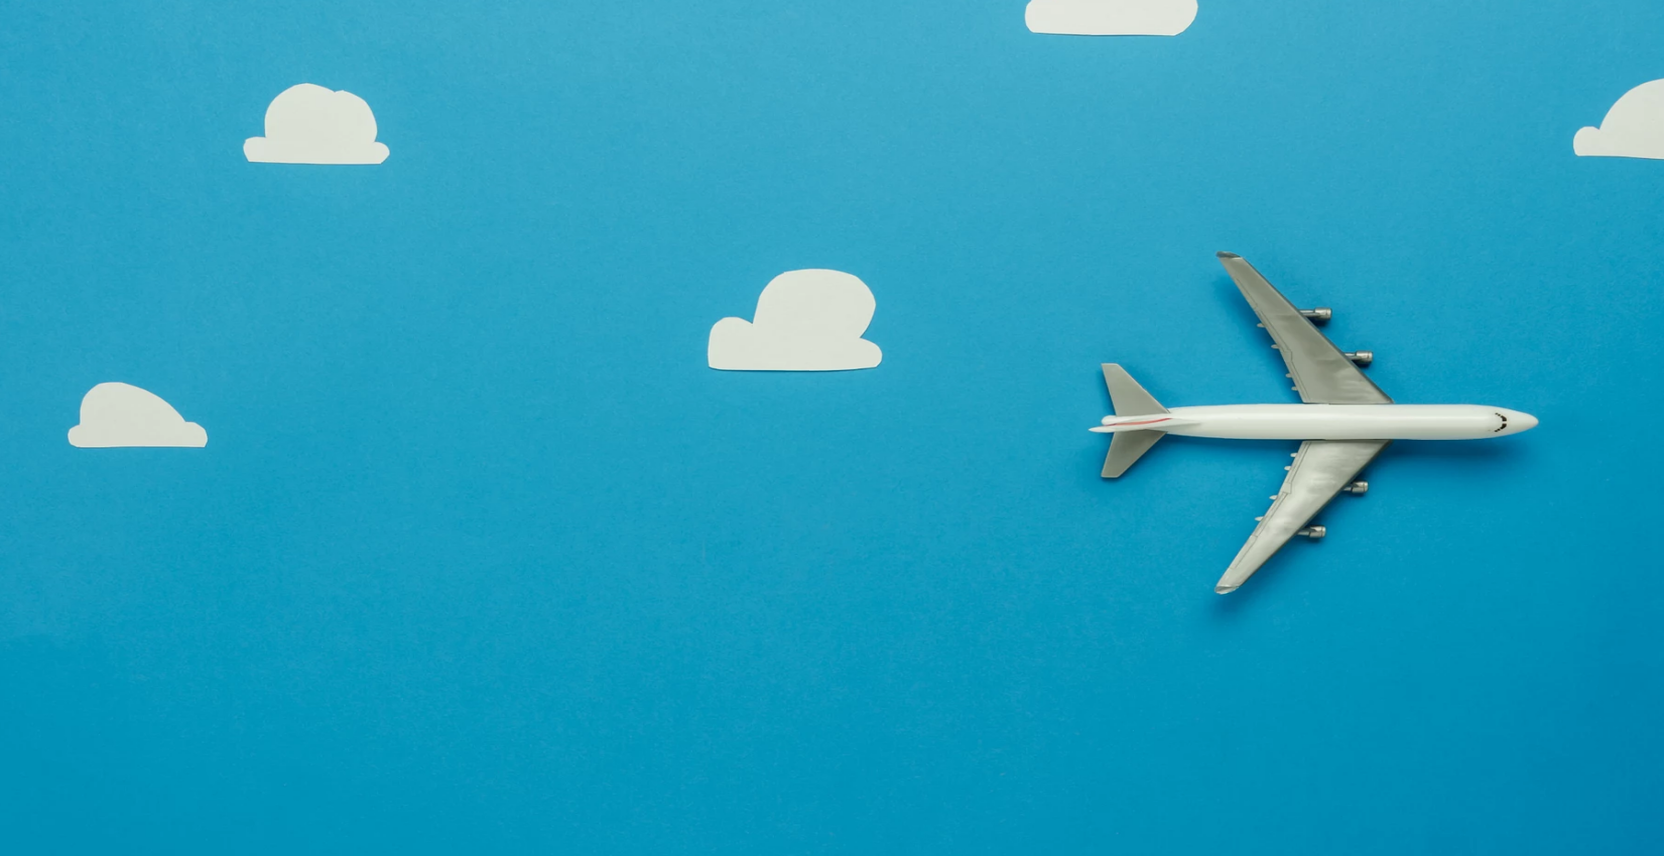
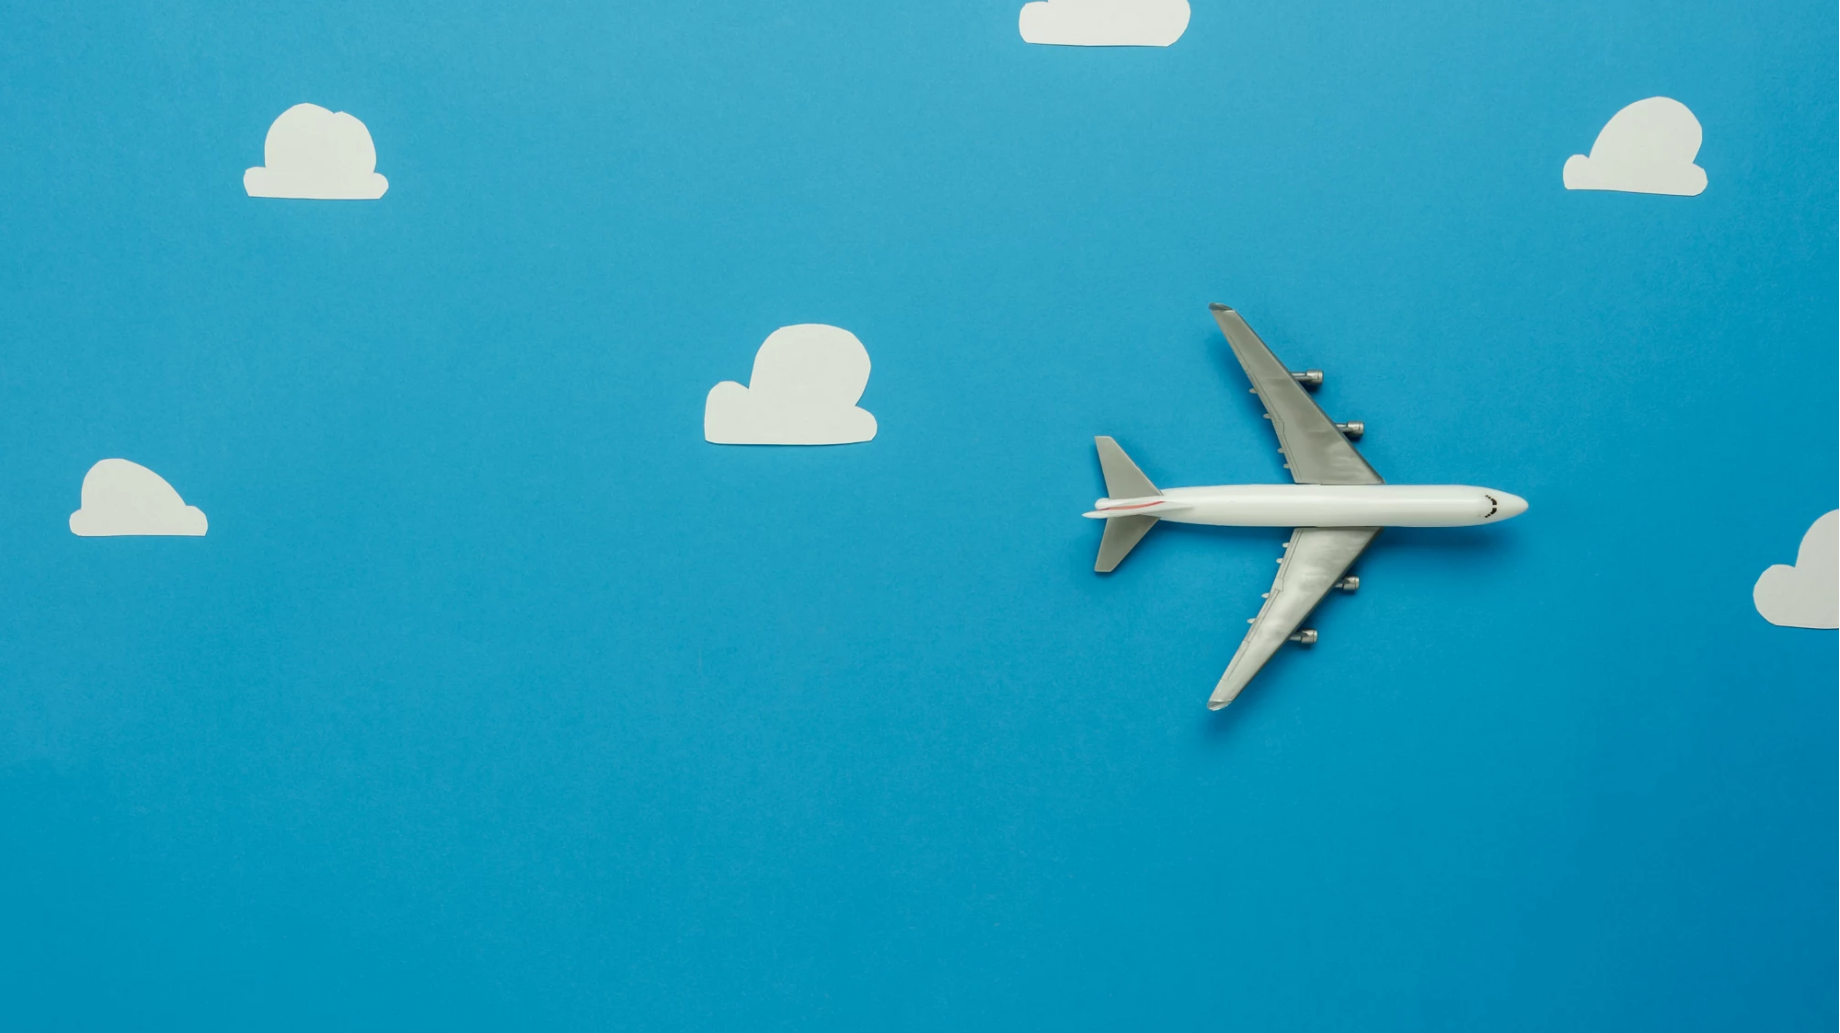
working on css

diff --git a/src/app/input-form/input-form.component.html b/src/app/input-form/input-form.component.html
@@ -1,28 +1,36 @@
 
-  I want to travel in 
+<div class="row" id="input-form">
+  <div class="row" id="select-month-row">
+   I want to travel in
+  <select name="Month" class="dropdown" id="select-month" (click)="onMonthClick($event)">
+    <option *ngFor="let month of months" [value]="month.id">{{month.name}}</option>
+  </select>
+</div>
+ 
+ <div class="row" id="select-temp">
+  <label>The temperature should be around: <span id="amount">{{selectedTemp}}</span>  ° 
+    <span id="celcius" (click)="metric1()">Celcius</span> | <span id="farenheit" (click)="metric()">Farenheit</span>
 
-  <!-- SEMANTIC UI DROPDOWN -->
-<select name="Month" class="ui dropdown" id="select" (click)="onMonthClick($event)" >
-  <option *ngFor="let month of months" [value]="month.id">{{month.name}}</option>
-</select>
+    <br />
 
-<br />
-<label>The temperature should be around: <span id="amount">{{selectedTemp}} degrees.</span>
-<br />
-  <input *ngFor="let temp of temps" type="range" id="range" [min]=temp.range.low [max]="temp.range.high" [value]="0" step="5" [(ngModel)]="selectedTemp" (ngModelChange)="tempSlider($event)">
-</label>
-
-
-<br />
-<label>The humidity should be around: <span id="amount">{{selectedHumidity}}%.</span>
-<br />
-  <input *ngFor="let hum of humidity" type="range" id="range" [min]="hum.range.low" [max]="hum.range.high" [value]="100" step="5" [(ngModel)]="selectedHumidity" (ngModelChange)="humiditySlider($event)">
-</label>
-
-
-<div>
-<button class="ui button" (click)="showData()">Submit</button>
+    <div class="slider">
+      <input *ngFor="let temp of temps" type="range" id="range" [min]=temp.range.low [max]="temp.range.high" [value]="0" step="5" [(ngModel)]="selectedTemp" (ngModelChange)="tempSlider($event)">
+    </div>
+  </label>
 </div>
 
+ <div class="row" id="select-humidity">
+  <label>The humidity should be around: <span id="amount">{{selectedHumidity}}</span> %
+    <br />
 
-<span class="results" value=""></span>
+    <div id="slider">
+      <input *ngFor="let hum of humidity" type="range" id="range" [min]="hum.range.low" [max]="hum.range.high" [value]="100" step="5" [(ngModel)]="selectedHumidity" (ngModelChange)="humiditySlider($event)">
+    </div>
+  </label>
+</div>
+
+  <div>
+    <button class="ui button" (click)="showData()">Submit</button>
+  </div>
+  <span class="results" value=""></span>
+</div>

diff --git a/src/app/input-form/input-form.component.css b/src/app/input-form/input-form.component.css
@@ -1,0 +1,110 @@
+
+#input-form {
+	text-align: center;
+	background-image: linear-gradient(to bottom right, #8cd98c, #339933);
+	font-family: 'Didact Gothic', sans-serif;
+	font-size: 2vw;
+	letter-spacing: 2px;
+	padding-top: 80px;
+}
+
+#select-month-row {
+	margin: 70px;
+}
+
+#select-temp {
+	margin: 70px;
+}
+
+#select-humidity {
+	margin: 70px;
+}
+
+#select-month {
+	background: none;
+	border: none;
+	border-bottom: 1px solid #000;
+	padding-bottom: 5px;
+}
+
+#amount {
+	border-bottom: 1px solid #000;
+	padding-bottom: 5px;
+}
+
+#celcius {
+	color: black;
+}
+
+#farenheit {
+	color: blue;
+	cursor: pointer;
+}
+
+.slider {
+	margin: 50px;	   
+}
+
+
+/*Apply styling that will override basic appearance*/
+/*nb this example is Chrome only*/
+
+input[type=range] {
+  -webkit-appearance: none;  /*Hides the slider so that custom slider can be made */
+  background: solid; /* Otherwise white in Chrome */
+  width: 50%;
+    height: 15px;
+    border-radius: 5px;
+    background: #d3d3d3;
+    outline: none;
+    opacity: 1;
+    -webkit-transition: .2s;
+    transition: opacity .2s;
+}
+
+input[type=range]::-webkit-slider-thumb {
+  /*-webkit-appearance: none;*/
+}
+
+input[type=range]:hover {
+  outline: none; 
+  opacity: 0.8;
+  /* Removes the blue border. You should probably do some kind of focus styling for accessibility reasons though. */
+}
+
+/*Styling the thumb in Chrome*/
+input[type=range]::-webkit-slider-thumb {
+  -webkit-appearance: none;
+
+  height: 40px;
+  width: 40px;
+  border-radius: 50%;
+  border: 2px solid #fff;
+  background: #ffffff;
+   /*background: url("/assets/tint-drop.png");*/
+  cursor: pointer;
+  margin-top: 0px; 
+  box-shadow: inset 0px 1px 3px rgba(0,0,0,0.9);/* You need to specify a margin in Chrome, but in Firefox and IE it is automatic */
+  /*box-shadow: 1px 1px 1px #000000, 0px 0px 1px #0d0d0d; /* Add cool effects to your sliders! */
+}
+
+/*Styling the track in Chrome*/
+input[type=range]::-webkit-slider-runnable-track {
+/*  width: 100%;
+  height: 11px;
+  cursor: pointer;
+  background: #ffffff;
+  border-radius: 6px;
+  box-shadow: inset 0px 1px 3px rgba(0,0,0,0.9);*/
+}
+
+
+  
+  
+
+
+
+select {
+		font-family: 'Didact Gothic', sans-serif;
+
+}

diff --git a/src/app/banner/banner.component.css b/src/app/banner/banner.component.css
@@ -1,9 +1,10 @@
-@import url('https://fonts.googleapis.com/css?family=Kirang+Haerang');
 
+#sun {
+}
 
 #banner {
-	background-image: url(/assets/airplane.png);
-	background-size: contain;
+	background-image: url(/assets/cropped.png);
+	background-size: cover;
 	background-repeat: no-repeat;
 	background-position: center;
 	min-height: 900px;
@@ -21,26 +22,67 @@
 	color: black;
 	letter-spacing: 8px;
 	text-align: center;
-	padding: 50px;
+	padding-top: 50px;
 }
 
 #slogan-row {
-	margin: 400px 100px 50px 100px;
+	margin: 20px 100px 20px 100px;
 	/*padding-top: 100px;*/
 	/*padding: 50px 50px 0px 50px;*/
 }
 
 #slogan {
 	font-size: 3vw;
+	text-align: center;
+		font-family: 'Didact Gothic', sans-serif;
+	letter-spacing: 3px;
 }
 
 
 #start-button-row {
-	margin: 0px 100px 0px 100px;
-	padding-bottom:50px;
+	margin: 10px 100px 0px 100px;
+	padding-bottom:70px;
+	padding-top: 50px;
+	text-align: center;
 }
 
 #start-button{
-	border-radius: 20px;
+	box-shadow: 0 6px #ab3c3c;
+	border-radius: 40px;
+	background-color: #ff8a00;
+	color: #000;
 }
 
+#start-button:hover {
+	box-shadow: 0 4px #ab3c3c;
+	top: 2px;
+	background-color: #e67a00
+}
+
+#start-button:active {
+	box-shadow: 0 0 #e67a00;
+	top: 6px;
+}
+
+
+#down-arrow {
+	padding-left: 10px;
+}
+
+/*.dot {
+    height: 25px;
+    width: 25px;
+    background-color: #bbb;
+    border-radius: 50%;
+    display: inline-block;
+}
+*/
+
+
+#input-form {
+	text-align: center;
+	background-image: linear-gradient(to bottom right, #8cd98c, #339933);
+	font-family: 'Didact Gothic', sans-serif;
+	letter-spacing: 2px;
+	padding-top: 80px;
+}

diff --git a/src/app/input-form/input-form.component.ts b/src/app/input-form/input-form.component.ts
@@ -48,13 +48,14 @@ export class InputFormComponent implements OnInit {
     this.getHumidity();
     // this.showDropdown();
     this.onMonthClick(event);
-    // this.filteredMonth=[];
   }
 
   ngAfterViewInit() {
     this.tempSlider(event);
     this.humiditySlider(event);
     this.showData();
+    this.metric();
+    this.metric1();
   }
 
   //DISPLAYS LIST OF MONTHS FROM DATA SOURCE
@@ -110,11 +111,45 @@ export class InputFormComponent implements OnInit {
   }
 
   tempSlider(event): void {
-    this.selectedTemp = event;
+    if (!event) {
+      this.selectedTemp = 0;
+    } else {
+      this.selectedTemp = event;
+    }
   }
 
   humiditySlider(event): void {
-    this.selectedHumidity = event;
+    if (!event) {
+      this.selectedHumidity = 50;
+    } else {
+      this.selectedHumidity = event;
+    }
+  }
+
+  metric(event) {
+      if ($('#farenheit').click()) {
+          $("#farenheit").css({
+            "color": "black",
+            "cursor": "auto"
+          });
+          $("#celcius").css({
+            "color": "blue", 
+            "cursor": "pointer"
+          });
+      }  
+  }
+
+  metric1(event) {
+      if ($('#celcius').click()) {
+          $("#farenheit").css({
+            "color": "blue",
+            "cursor": "pointer"
+            );
+          $("#celcius").css({
+            "color": "black",
+            "cursor": "auto"
+            });
+      } 
   }
 
   showData() {

diff --git a/src/app/banner/banner.component.html b/src/app/banner/banner.component.html
@@ -2,23 +2,22 @@
   <div class="sixteen wide column" id="banner">
     <div class="two wide column">
       <div class="row" id="title-row">
+        <img id="sun" src="/assets/sun.gif">
         <div class="ui header" id="title">Vacation City</div>
     </div>
   </div>
     <div class="row" id="slogan-row">
       <div class="two wide column">
-        <div class="ui header" id="slogan">Choose your next travel destination based on the weather.</div>
+        <div class="ui header" id="slogan">Choose your next travel destination based on the <strong>weather</strong>.</div>
       </div>
     </div>
     <div class="row" id="start-button-row">
       <div class="two wide column">
-        <div class="ui orange huge button" id="start-button">Get Started <i class="right arrow icon"></i></div>
+        <div class="ui huge button" id="start-button">Get Started <i class="down angle icon" id="down-arrow"></i></div>
+        <span class="dot"></span>
       </div>
     </div>
   </div>
 </div>
-<hr>
-<h3>
+
   <app-input-form></app-input-form>
-</h3>
-<hr>

diff --git a/src/app/app.component.css b/src/app/app.component.css
@@ -1,0 +1,1 @@
+@import url('https://fonts.googleapis.com/css?family=Didact+Gothic|Kirang+Haerang');
